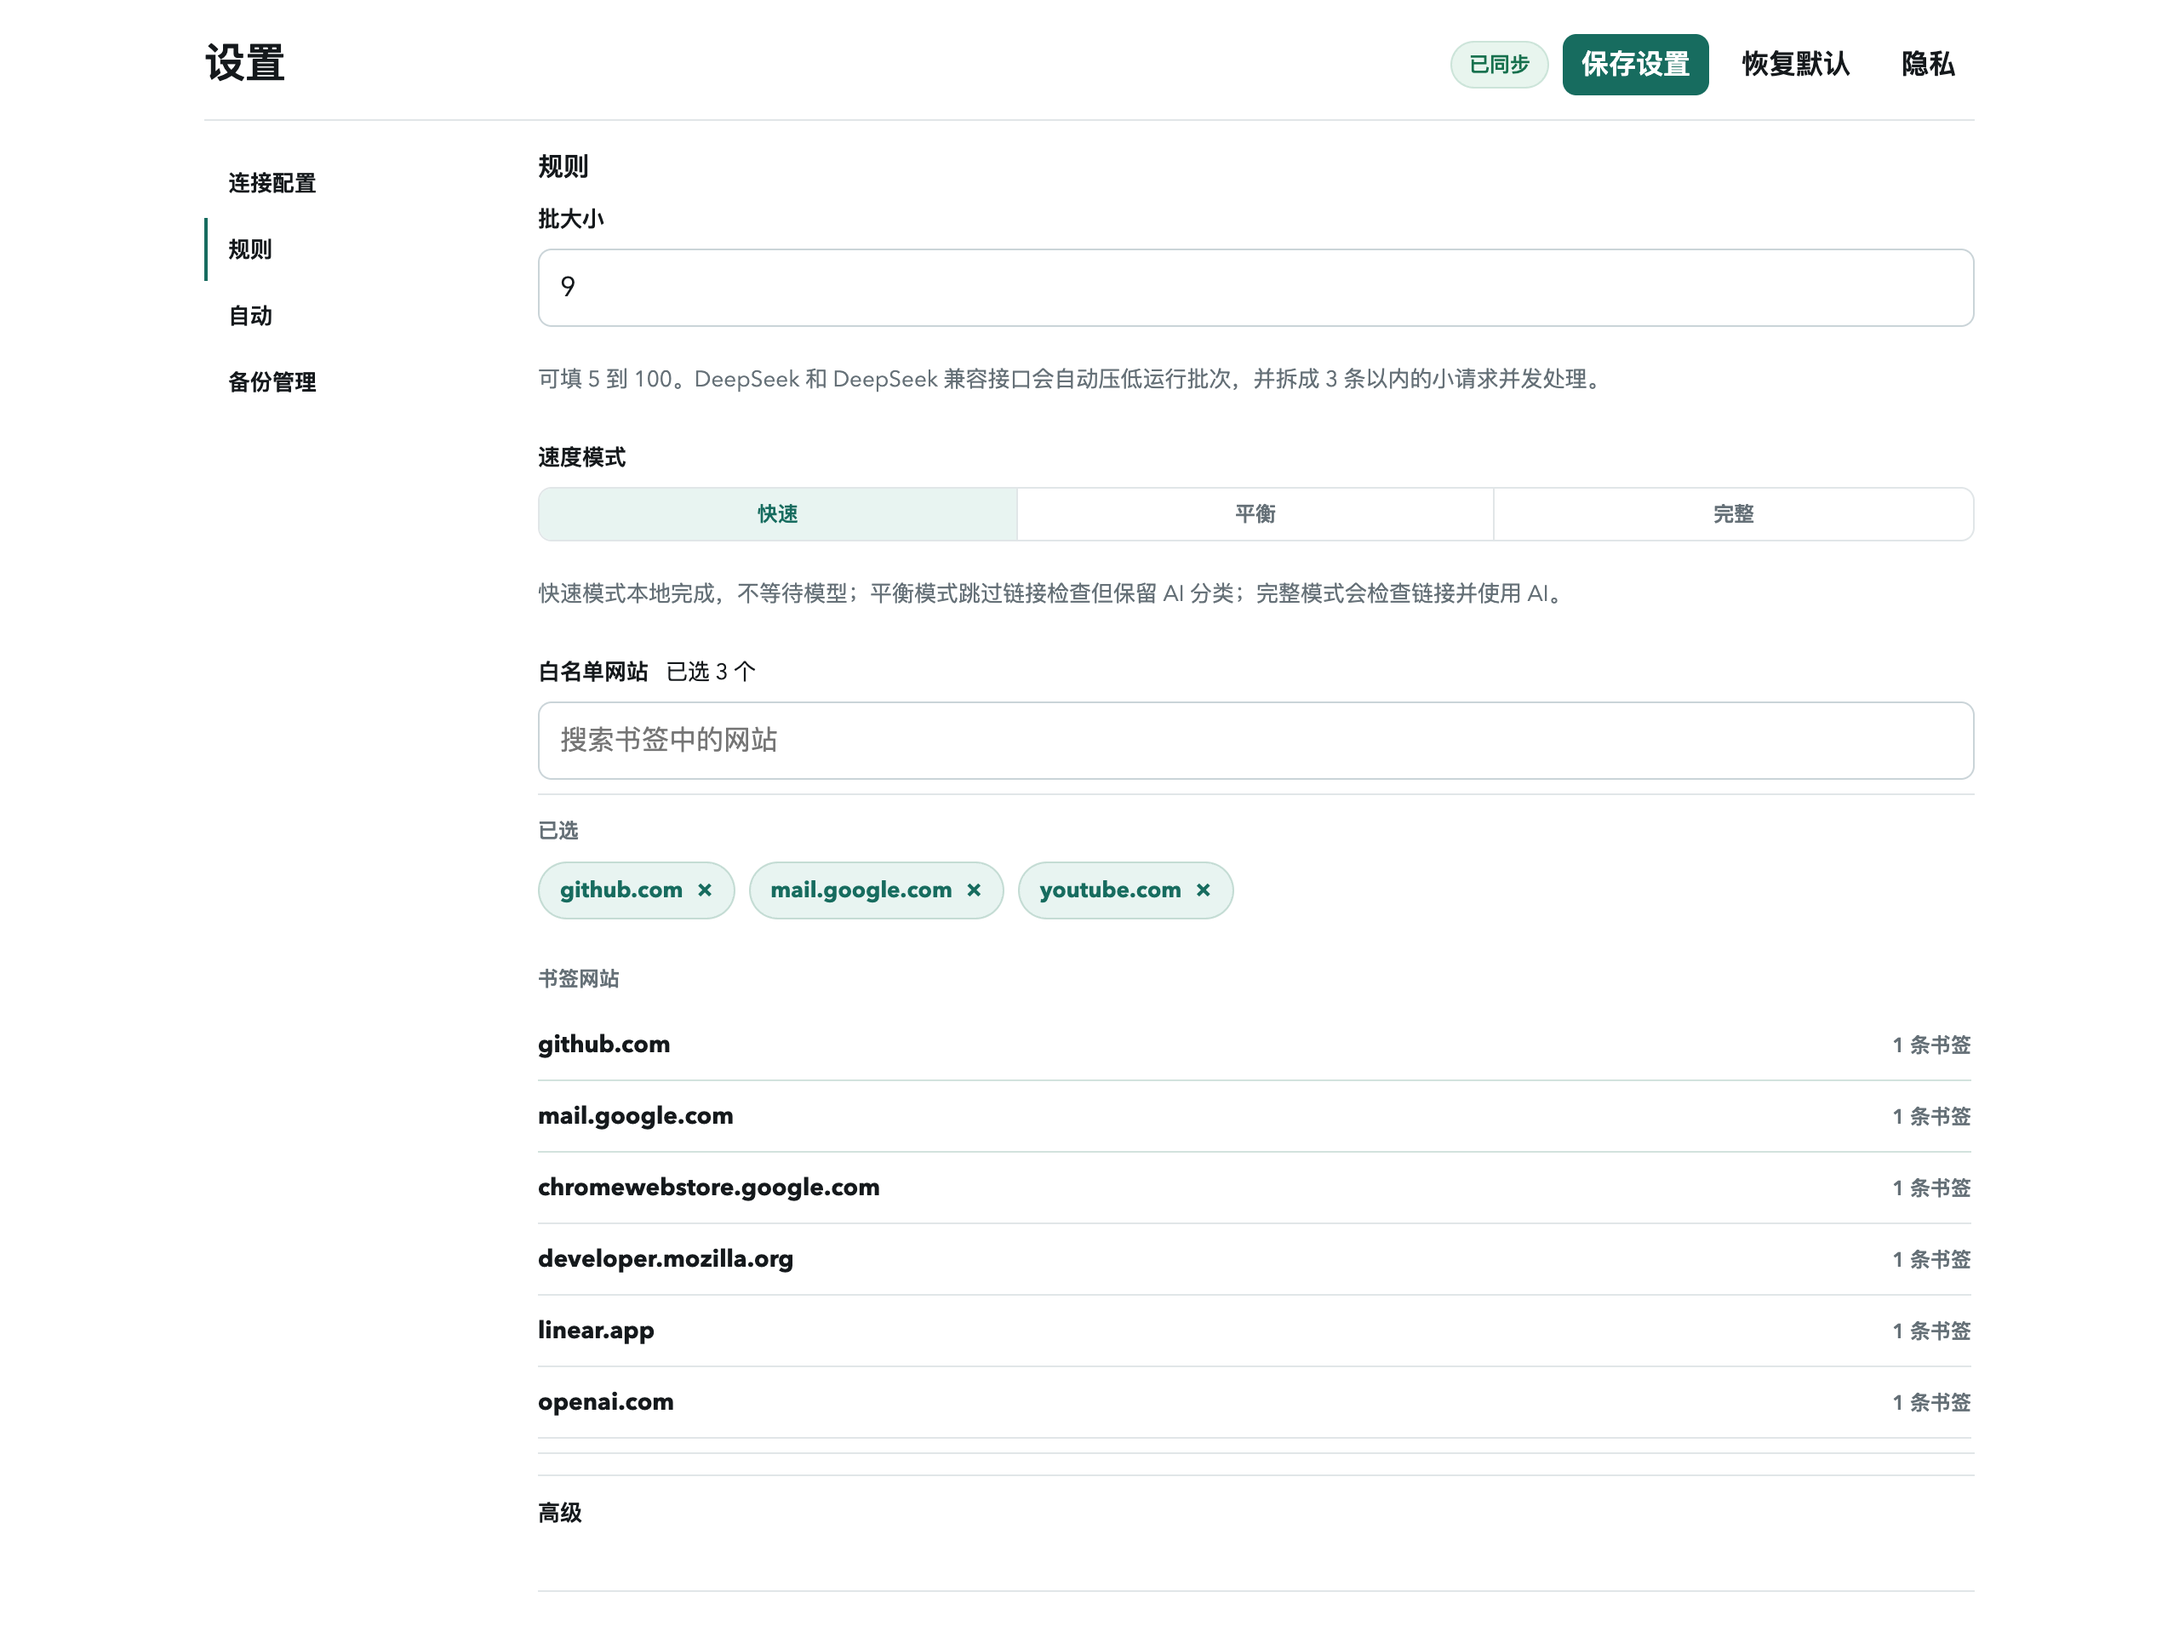
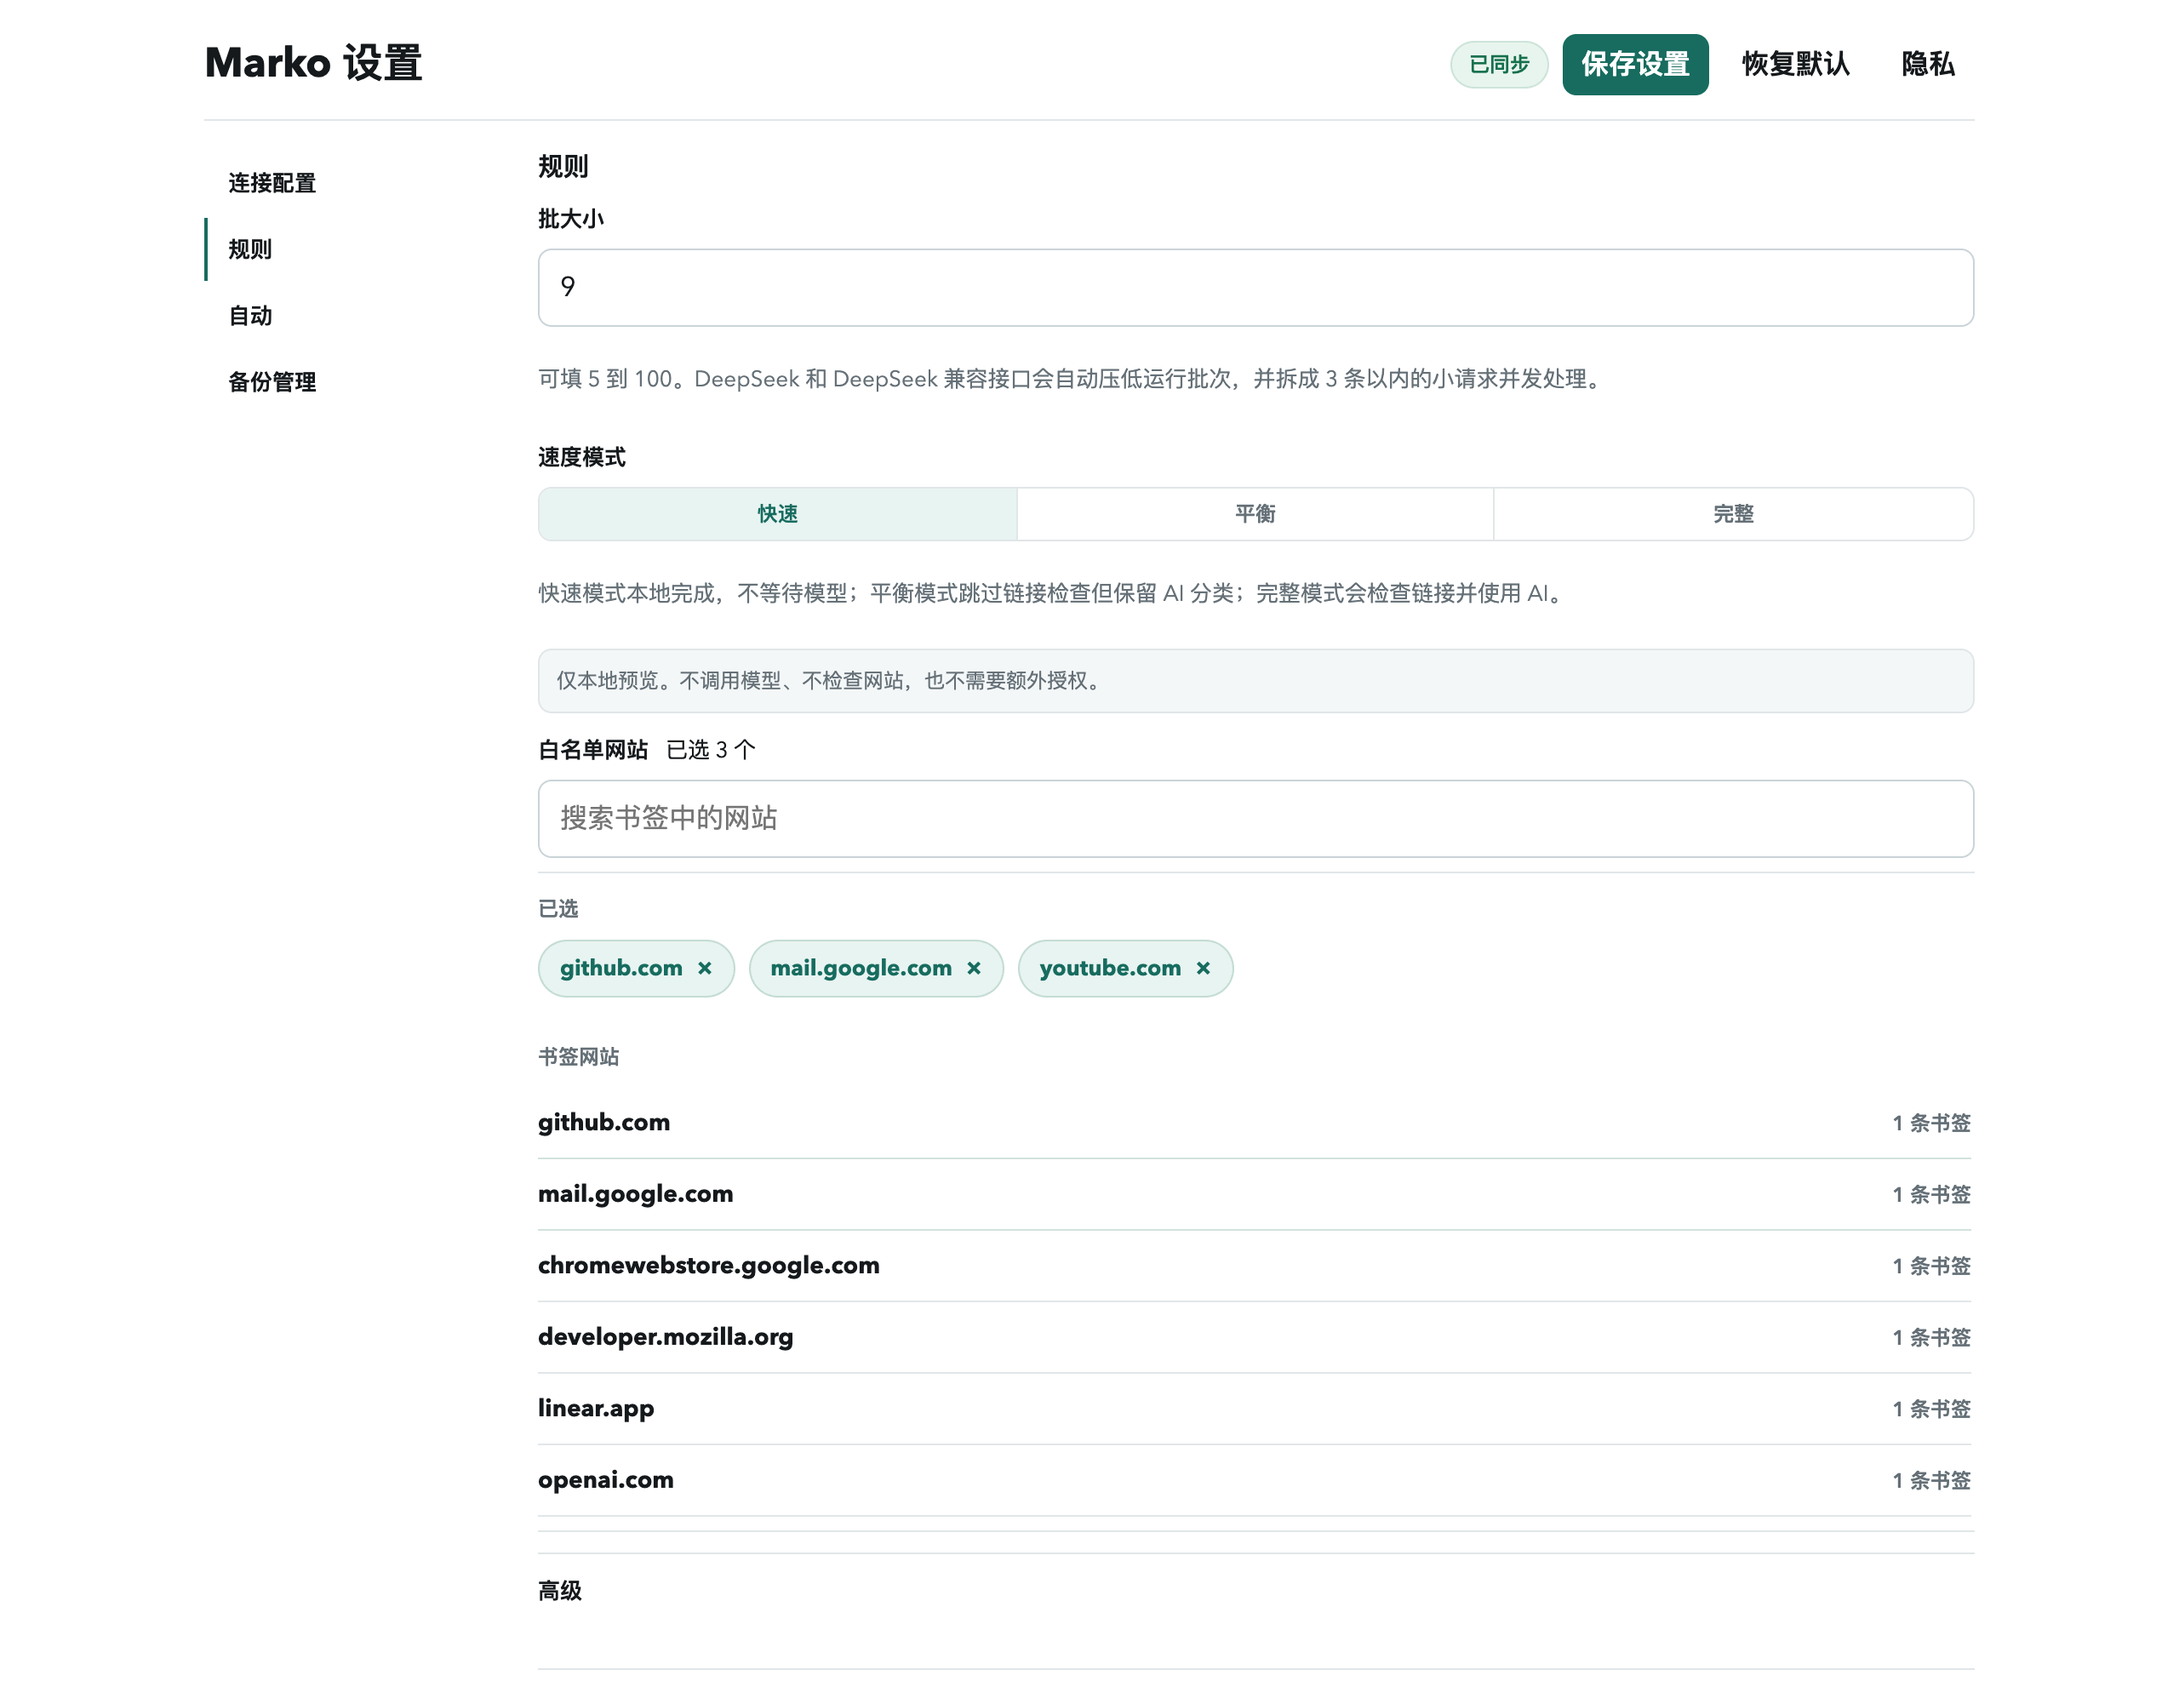
Clarify settings mode privacy summary

diff --git a/tests/run-tests.js b/tests/run-tests.js
@@ -1306,6 +1306,8 @@ function testOptionsBackupInlineConfirmationSurface() {
   assert.doesNotMatch(optionsHtml, /<select id="linkCheckMode"/);
   assert.match(optionsHtml, /id="linkCheckModeHint"[\s\S]*data-i18n="hintLinkCheckMode"/);
   assert.match(optionsHtml, /Fast finishes locally without waiting for the model\. Balanced skips link checks but keeps AI classification\. Complete checks links and uses AI\./);
+  assert.match(optionsHtml, /id="linkCheckModeSummary"[\s\S]*role="status"[\s\S]*aria-live="polite"[\s\S]*data-i18n="linkCheckFastSummary"/);
+  assert.match(optionsHtml, /Local preview only\. No model call, website check, or extra access is needed\./);
   assert.match(optionsHtml, /data-i18n="organizeTitle">Rules<\/h2>/);
   assert.doesNotMatch(optionsHtml, /Organization Rules/);
   assert.match(optionsHtml, /data-i18n="labelBatchSize">Batch size<\/label>/);
@@ -1351,6 +1353,7 @@ function testOptionsBackupInlineConfirmationSurface() {
   assert.match(optionsSource, /normalizeConfigBatchSize/);
   assert.match(optionsSource, /capConfigBatchSize/);
   assert.match(optionsSource, /batchSizeCapHint/);
+  assert.match(optionsSource, /linkCheckModeSummary/);
   assert.match(optionsSource, /connectionModeHint/);
   assert.match(optionsSource, /apiKeyVisibilityButton/);
   assert.match(optionsSource, /function setApiKeyVisible\(isVisible\)/);
@@ -1366,6 +1369,11 @@ function testOptionsBackupInlineConfirmationSurface() {
   assert.match(optionsSource, /connectionModeBalancedHint/);
   assert.match(optionsSource, /connectionModeFastHint/);
   assert.match(optionsSource, /connectionModeHint\.className = requiresAccess \? "field__hint panel__hint field__hint--warm" : "field__hint panel__hint"/);
+  assert.match(optionsSource, /function updateLinkCheckModeSummary/);
+  assert.match(optionsSource, /linkCheckFastSummary/);
+  assert.match(optionsSource, /linkCheckBalancedSummary/);
+  assert.match(optionsSource, /linkCheckCompleteSummary/);
+  assert.match(optionsSource, /linkCheckModeSummary\.classList\.toggle\("mode-summary--warm", isExternalMode\)/);
   assert.match(optionsSource, /function updateAiConnectionDisclosure/);
   assert.match(optionsSource, /aiConnectionRequiredSummary/);
   assert.match(optionsSource, /aiConnectionFastSummary/);
@@ -1641,6 +1649,8 @@ function testOptionsBackupInlineConfirmationSurface() {
   assert.match(stylesSource, /\.settings-action-status/);
   assert.match(stylesSource, /\.backup-confirm/);
   assert.match(stylesSource, /\.panel__hint/);
+  assert.match(stylesSource, /\.mode-summary/);
+  assert.match(stylesSource, /\.mode-summary--warm/);
   assert.match(stylesSource, /\.field label,[\s\S]*\.field__label/);
   assert.match(stylesSource, /\.field__hint--warm/);
   assert.match(stylesSource, /\.field__hint\[hidden\]/);
@@ -1666,6 +1676,10 @@ function testOptionsBackupInlineConfirmationSurface() {
   assert.match(i18nSource, /whitelistAddDomainWithCount/);
   assert.match(i18nSource, /whitelistRemoveDomainWithCount/);
   assert.match(i18nSource, /hintBatchSize/);
+  assert.match(i18nSource, /linkCheckFastSummary/);
+  assert.match(i18nSource, /linkCheckBalancedSummary/);
+  assert.match(i18nSource, /linkCheckCompleteSummary/);
+  assert.match(i18nSource, /仅本地预览/);
   assert.match(i18nSource, /showApiKeyButton/);
   assert.match(i18nSource, /hideApiKeyButton/);
   assert.match(i18nSource, /showApiKeyAria/);
@@ -1795,6 +1809,7 @@ function testReleaseMaterialsCurrent() {
   assert.match(changelog, /Settings fallback section headings now match the shorter Rules, Auto, Advanced, and Backups labels/);
   assert.match(changelog, /Settings fallback labels, hints, and placeholders now match the current English i18n copy before translations load/);
   assert.match(changelog, /Release tests now fail when HTML fallback copy drifts from the current English i18n text/);
+  assert.match(changelog, /Settings speed mode now shows a live privacy\/access summary/);
   assert.match(changelog, /README hero artwork now shows the Marko brand instead of the old Smart Bookmark AI label/);
   assert.match(changelog, /Release tests now verify README local links and images resolve to existing files or directories/);
   assert.match(changelog, /Release tests now lock new-install and reset defaults to OpenAI, Fast mode, and Silent organize off/);
@@ -1992,6 +2007,7 @@ function testReleaseMaterialsCurrent() {
   assert.match(releaseNotes, /Settings fallback section headings now match the shorter Rules, Auto, Advanced, and Backups labels/);
   assert.match(releaseNotes, /Settings fallback labels, hints, and placeholders now match the current English i18n copy before translations load/);
   assert.match(releaseNotes, /Release tests now fail when HTML fallback copy drifts from the current English i18n text/);
+  assert.match(releaseNotes, /Settings speed mode now shows a live privacy and access summary/);
   assert.match(releaseNotes, /README hero artwork now shows the Marko brand instead of the old Smart Bookmark AI label/);
   assert.match(releaseNotes, /Release tests now verify README local links and images resolve to existing files or directories/);
   assert.match(releaseNotes, /new installs and resets default to the OpenAI provider, Fast mode, and Silent organize off/);
@@ -2298,6 +2314,12 @@ function testReleaseMaterialsCurrent() {
   assert.match(extensionE2e, /optionsSaveExpression/);
   assert.match(extensionE2e, /settingsSpeedModeBalancedButton/);
   assert.match(extensionE2e, /settingsSpeedModeFastButton/);
+  assert.match(extensionE2e, /balancedModeSummaryText/);
+  assert.match(extensionE2e, /balancedModeSummaryWarm/);
+  assert.match(extensionE2e, /fastModeSummaryText/);
+  assert.match(extensionE2e, /fastModeSummaryWarm/);
+  assert.match(extensionE2e, /options Balanced mode summary did not explain model access/);
+  assert.match(extensionE2e, /options Fast mode summary did not explain local-only behavior/);
   assert.match(extensionE2e, /apiKeyVisibilityButton/);
   assert.match(extensionE2e, /apiKeyTypeBeforeToggle/);
   assert.match(extensionE2e, /apiKeyTypeAfterShow/);

diff --git a/i18n.js b/i18n.js
@@ -250,6 +250,12 @@ Hard rules:
       linkCheckComplete: "Complete",
       hintLinkCheckMode:
         "Fast finishes locally without waiting for the model. Balanced skips link checks but keeps AI classification. Complete checks links and uses AI.",
+      linkCheckFastSummary:
+        "Local preview only. No model call, website check, or extra access is needed.",
+      linkCheckBalancedSummary:
+        "Uses AI classification for uncached bookmarks. Needs model endpoint access, but skips direct website checks.",
+      linkCheckCompleteSummary:
+        "Uses AI classification and direct website checks. Needs model endpoint access and broader website access.",
       labelWhitelistDomains: "Whitelist Websites",
       labelProtectedRootFolders: "Protected Root Folders",
       labelDomainFolderRules: "Domain Folder Rules",
@@ -575,6 +581,9 @@ Hard rules:
       linkCheckBalanced: "平衡",
       linkCheckComplete: "完整",
       hintLinkCheckMode: "快速模式本地完成，不等待模型；平衡模式跳过链接检查但保留 AI 分类；完整模式会检查链接并使用 AI。",
+      linkCheckFastSummary: "仅本地预览。不调用模型、不检查网站，也不需要额外授权。",
+      linkCheckBalancedSummary: "未缓存书签会使用 AI 分类。需要模型接口权限，但不会直接检查网站。",
+      linkCheckCompleteSummary: "会使用 AI 分类并直接检查网站。需要模型接口权限和更广的网站访问权限。",
       labelWhitelistDomains: "白名单网站",
       labelProtectedRootFolders: "受保护根目录",
       labelDomainFolderRules: "域名目录规则",

diff --git a/options.js b/options.js
@@ -26,6 +26,7 @@ const batchSizeInput = document.getElementById("batchSize");
 const batchSizeCapHint = document.getElementById("batchSizeCapHint");
 const linkCheckModeSelect = document.getElementById("linkCheckMode");
 const linkCheckModeButtons = Array.from(document.querySelectorAll("[data-settings-speed-mode]"));
+const linkCheckModeSummary = document.getElementById("linkCheckModeSummary");
 const connectionModeHint = document.getElementById("connectionModeHint");
 const aiConnectionBlock = document.getElementById("aiConnectionBlock");
 const aiConnectionSummaryNote = document.getElementById("aiConnectionSummaryNote");
@@ -976,6 +977,23 @@ function updateConnectionModeHint() {
   connectionModeHint.textContent = t(key);
   connectionModeHint.className = requiresAccess ? "field__hint panel__hint field__hint--warm" : "field__hint panel__hint";
   updateAiConnectionDisclosure(mode);
+  updateLinkCheckModeSummary(mode);
+}
+
+function updateLinkCheckModeSummary(mode = normalizeLinkCheckMode(linkCheckModeSelect.value)) {
+  if (!linkCheckModeSummary) {
+    return;
+  }
+
+  const summaryKeyByMode = {
+    [LINK_CHECK_MODE_FAST]: "linkCheckFastSummary",
+    [LINK_CHECK_MODE_BALANCED]: "linkCheckBalancedSummary",
+    [LINK_CHECK_MODE_COMPLETE]: "linkCheckCompleteSummary"
+  };
+  const isExternalMode = mode !== LINK_CHECK_MODE_FAST;
+
+  linkCheckModeSummary.textContent = t(summaryKeyByMode[mode] || summaryKeyByMode[LINK_CHECK_MODE_FAST]);
+  linkCheckModeSummary.classList.toggle("mode-summary--warm", isExternalMode);
 }
 
 function updateAiConnectionDisclosure(mode = normalizeLinkCheckMode(linkCheckModeSelect.value)) {

diff --git a/options.html b/options.html
@@ -357,6 +357,15 @@
                     <p class="field__hint" id="linkCheckModeHint" data-i18n="hintLinkCheckMode">
                       Fast finishes locally without waiting for the model. Balanced skips link checks but keeps AI classification. Complete checks links and uses AI.
                     </p>
+                    <div
+                      class="mode-summary"
+                      id="linkCheckModeSummary"
+                      role="status"
+                      aria-live="polite"
+                      data-i18n="linkCheckFastSummary"
+                    >
+                      Local preview only. No model call, website check, or extra access is needed.
+                    </div>
                   </div>
 
                   <div class="field field--full">

diff --git a/styles.css b/styles.css
@@ -535,6 +535,22 @@ textarea {
   display: none;
 }
 
+.mode-summary {
+  padding: 9px 10px;
+  border: 1px solid var(--line);
+  border-radius: var(--radius-md);
+  background: var(--surface-subtle);
+  color: var(--text-soft);
+  font-size: 12px;
+  line-height: 1.5;
+}
+
+.mode-summary--warm {
+  border-color: rgba(154, 91, 18, 0.18);
+  background: var(--warn-soft);
+  color: var(--warn);
+}
+
 .field label,
 .field__label {
   font-size: 13px;

diff --git a/CHANGELOG.md b/CHANGELOG.md
@@ -21,6 +21,7 @@
 - Popup backup action now says Backup Now in English so the toolbar reads as an immediate action, matching the Chinese manual-backup label
 - Popup setup primary action now says Open Settings, making the missing-configuration path explicit on first use
 - Settings organization rules now use the same Fast/Balanced/Complete segmented control as the popup instead of a compact dropdown
+- Settings speed mode now shows a live privacy/access summary, so Fast, Balanced, and Complete clearly state whether they use the model or direct website checks
 - Settings automation now uses a direct Silent organize switch instead of a true/false dropdown
 - Settings automation fallback labels now match the simplified Silent organize wording before translations load
 - Settings fallback section headings now match the shorter Rules, Auto, Advanced, and Backups labels before translations load
